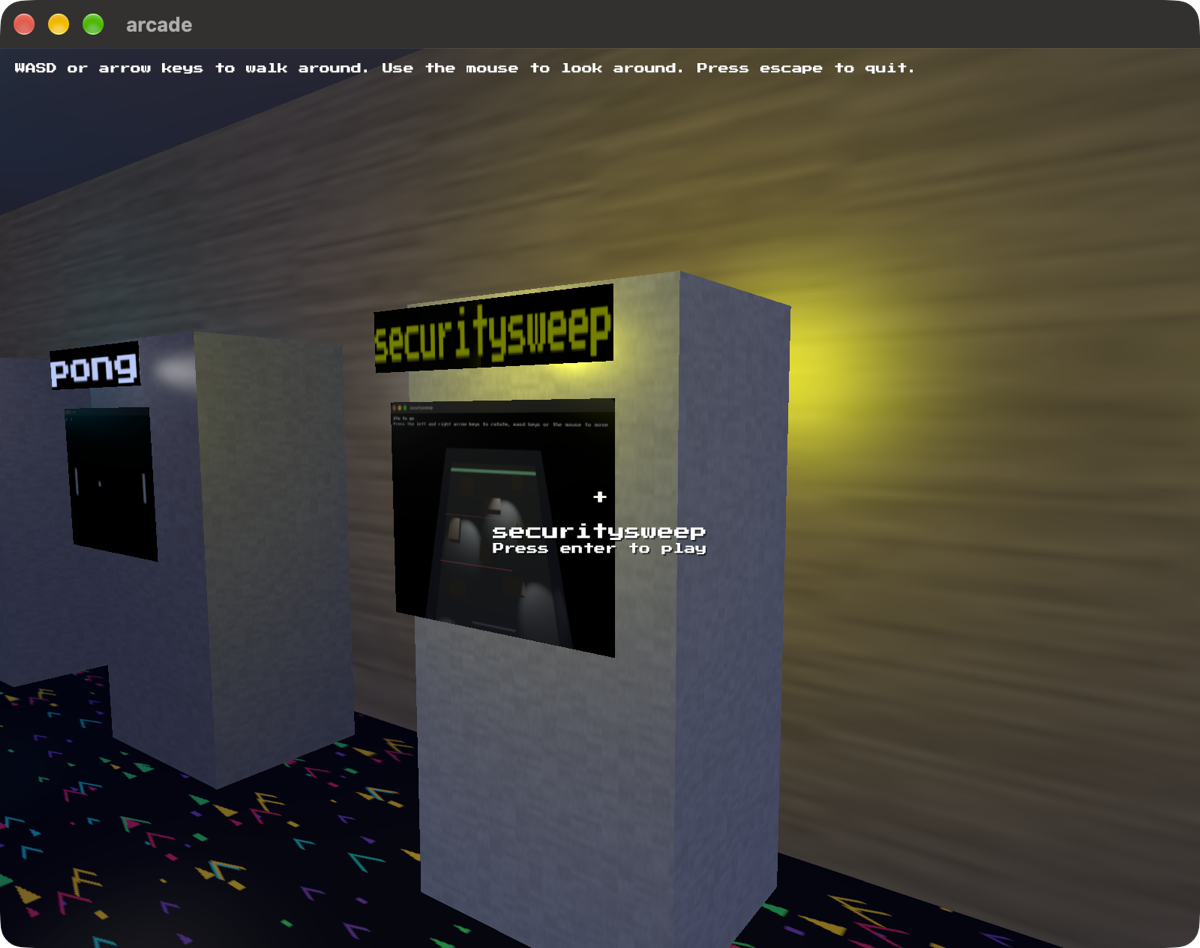
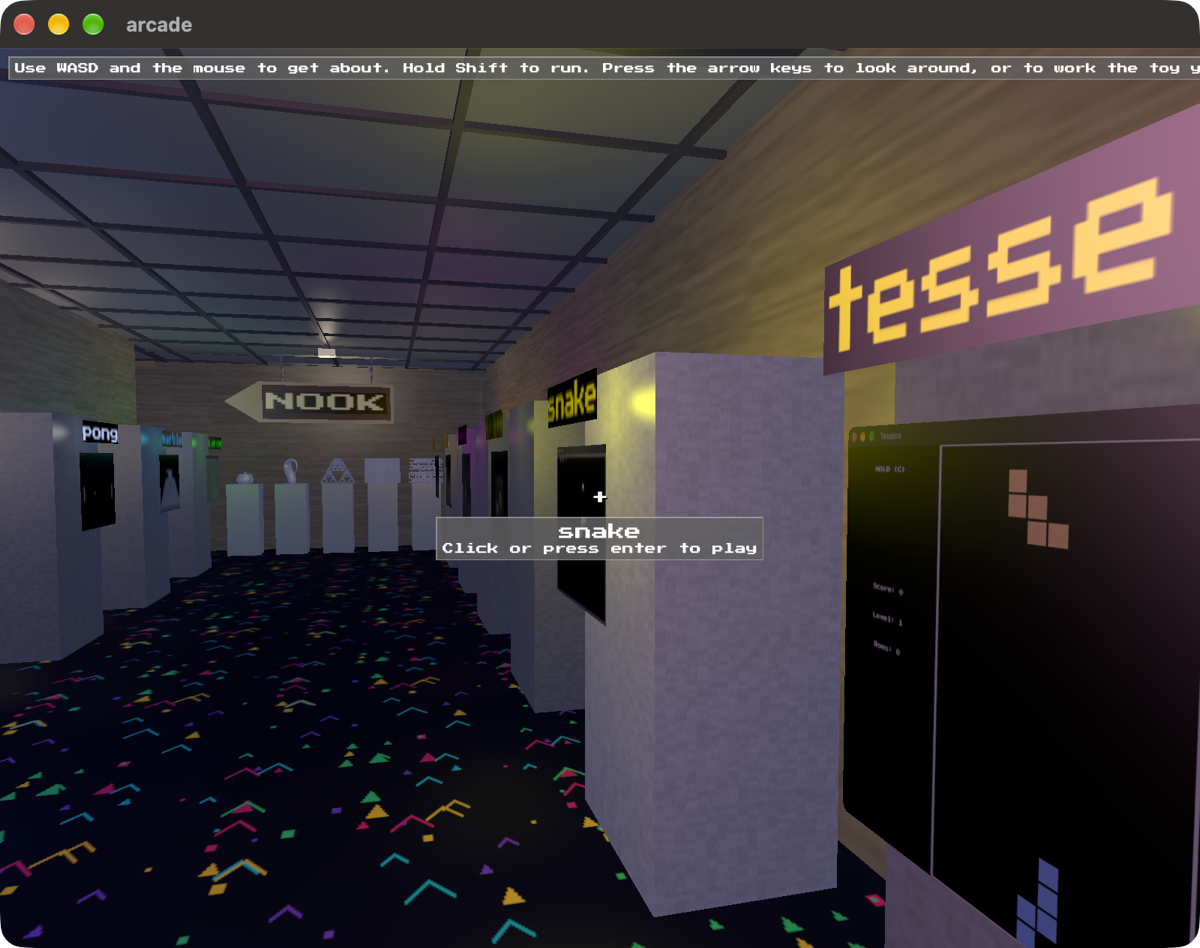
Work the staged shot out from a cabinet, and take it again
The screenshot on the site was from the fifth of October, before the
garden, the baths as they are, and the room behind the wall. Its help
line is wording that no longer exists anywhere in the building.

Re-posing it walked straight into the trap written in the constant's
own doc: it used to be a bearing, and adding a thirteenth game moved
the rows under it until the sight landed in the gap between two
cabinets and the picture was a wall. My first attempt set a new
bearing, which is the same mistake one roster change from going stale.

So the pose is worked out from a cabinet. Find the right hand row,
take the second along from the end you come in at, stand POSED_OUT
clear of its face and POSED_BACK toward the way in. Add a game and the
framing follows the row.

Aiming straight at it turns far enough into the row that the cabinet
behind your shoulder fills a third of the frame. POSED_PAST aims a
metre and a half further down the aisle: eight degrees flatter, still
lands the sight on the cabinet so it is lit and named and offering its
key, and leaves the room behind it in the picture.

Taken by refresh-screenshots, so it can be taken again.

diff --git a/src/main.rs b/src/main.rs
@@ -146,18 +146,60 @@ fn staged() -> bool {
     std::env::args().any(|arg| arg == "--screenshot")
 }
 
-/// Where the camera stands for a staged shot, and which way it looks.
+/// How far back from the cabinet the staged shot stands, and how far out of
+/// its face into the aisle.
 ///
 /// Spec 0003 made the screens go dark until you are within reach of one, so
-/// the view from the doorway is now a dark room with nothing answering. The
-/// picture has to be taken from where the room is doing something: a step back
-/// from a cabinet, with it lit and named and offering its key.
-/// Aimed at a cabinet rather than at a bearing. It was a bearing, and adding a
-/// thirteenth game moved the rows under it: the sight landed in the gap between
-/// two cabinets and the picture was a wall.
-const POSED_AT: Vec3 = vec3(0.0, 0.0, 3.6);
-const POSED_YAW: f32 = 0.96;
-const POSED_PITCH: f32 = -0.1;
+/// the view from the doorway is a dark room with nothing answering. The
+/// picture has to be taken from where the room is doing something: a step
+/// back from a cabinet, with it lit and named and offering its key.
+///
+/// Down the aisle and not across it. The shot this replaced stood beside one
+/// row looking at the other, and the room has outgrown that: the nearest
+/// cabinet filled a third of the frame and nothing behind it read. From
+/// along the aisle both rows run away from you, which is what the room
+/// actually looks like, and the sign over the nook and the plinths at the
+/// far end come in behind.
+pub const POSED_BACK: f32 = 2.9;
+pub const POSED_OUT: f32 = 1.2;
+pub const POSED_PAST: f32 = 1.5;
+const POSED_PITCH: f32 = -0.05;
+
+/// Where the camera stands for a staged shot, and which way it looks.
+///
+/// **Worked out from a cabinet and not written down**, which this file has
+/// already learned once: the bearing it used to carry was right until a
+/// thirteenth game moved the rows under it, and then the sight landed in the
+/// gap between two cabinets and the picture was a wall. A bearing goes stale
+/// the day the roster changes. A cabinet does not.
+///
+/// The second one along on the right, counting from the end you come in at.
+/// The first is too close to the near wall to have anything behind it, and
+/// the second has the whole room at its back.
+fn posed(room: &Room) -> (Vec3, f32) {
+    let mut row: Vec<&room::Stood> = room
+        .stood
+        .iter()
+        .filter(|stood| stood.facing.x < -0.5)
+        .collect();
+
+    row.sort_by(|one, other| other.at.z.total_cmp(&one.at.z));
+
+    let Some(stood) = row.get(1).or_else(|| row.first()) else {
+        return (Vec3::new(0.8, 0.0, 6.2), 0.25);
+    };
+
+    // out of its face into the aisle, and back toward the way in
+    let at = stood.at + stood.facing * POSED_OUT + Vec3::Z * POSED_BACK;
+    // aimed a little past it rather than straight at it. Straight at it
+    // turns far enough into the row that the cabinet behind your shoulder
+    // fills a third of the frame; a metre and a half further down the aisle
+    // is eight degrees flatter, still lands the sight on the cabinet, and
+    // leaves the room behind it in the picture.
+    let look = stood.at - Vec3::Z * POSED_PAST - at;
+
+    (Vec3::new(at.x, 0.0, at.z), look.x.atan2(-look.z))
+}
 
 struct Arcade {
     room: Room,
@@ -418,6 +460,8 @@ impl Arcade {
         let (cradle, ropes) = cradle::strung();
 
         let reaches = room.reaches;
+        // worked out before `room` is moved into the struct below
+        let (posed_at, posed_yaw) = posed(&room);
         let (pool_at, pool_size, pool_deep) = spa::pool(reaches);
         let (tub_at, tub_wide, tub_deep) = spa::tub(room.reaches);
         let mut pool = blitzkit::water::Water::new(pool_at, pool_size, pool_deep, spa::CELLS);
@@ -448,7 +492,7 @@ impl Arcade {
             blew: 0.0,
             stirred: 0.0,
             steamy: 0.0,
-            at: if staged() { POSED_AT } else { room.doorway() },
+            at: if staged() { posed_at } else { room.doorway() },
             falling: 0.0,
             eye: 0.0,
             room,
@@ -558,7 +602,7 @@ impl Arcade {
             window: (800.0, 600.0),
             // looking down the room from the end you start at: forward is
             // (sin yaw, 0, -cos yaw), so nought faces -z
-            yaw: if staged() { POSED_YAW } else { 0.0 },
+            yaw: if staged() { posed_yaw } else { 0.0 },
             pitch: if staged() { POSED_PITCH } else { 0.0 },
             showing_solid: false,
             wants_planes: false,
